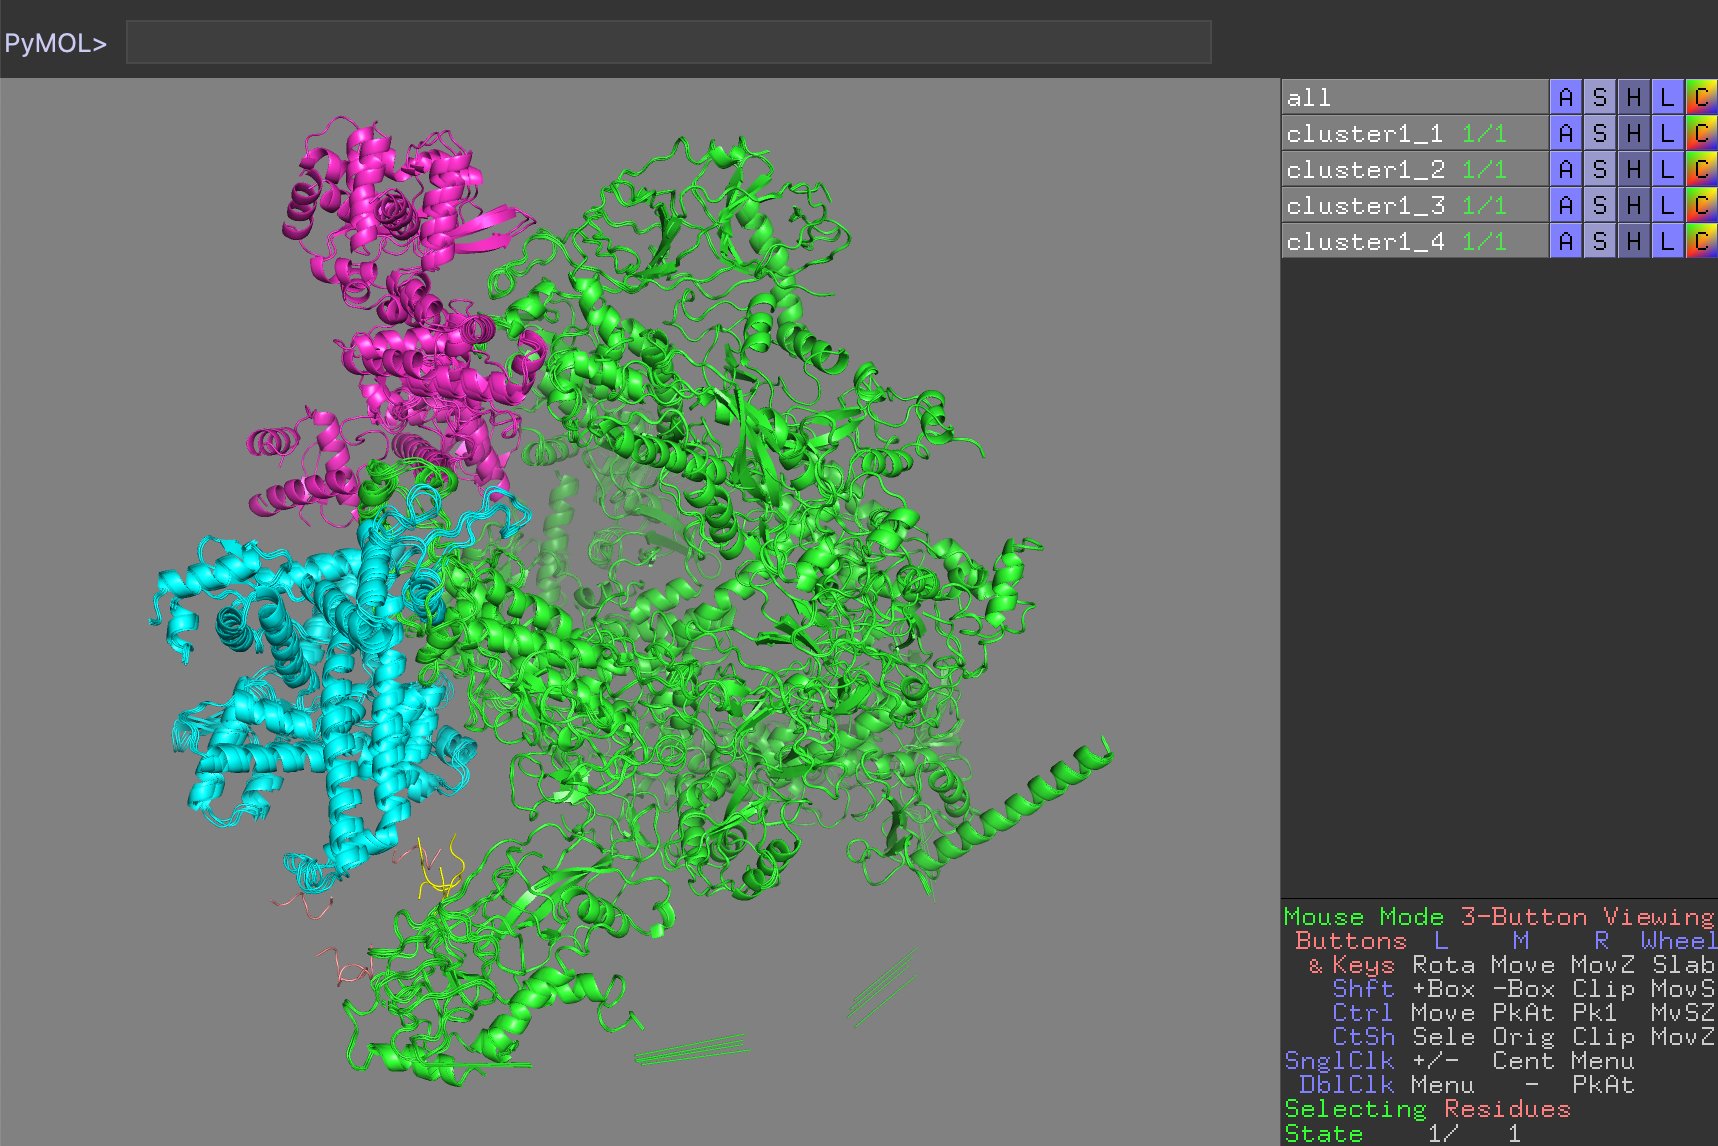
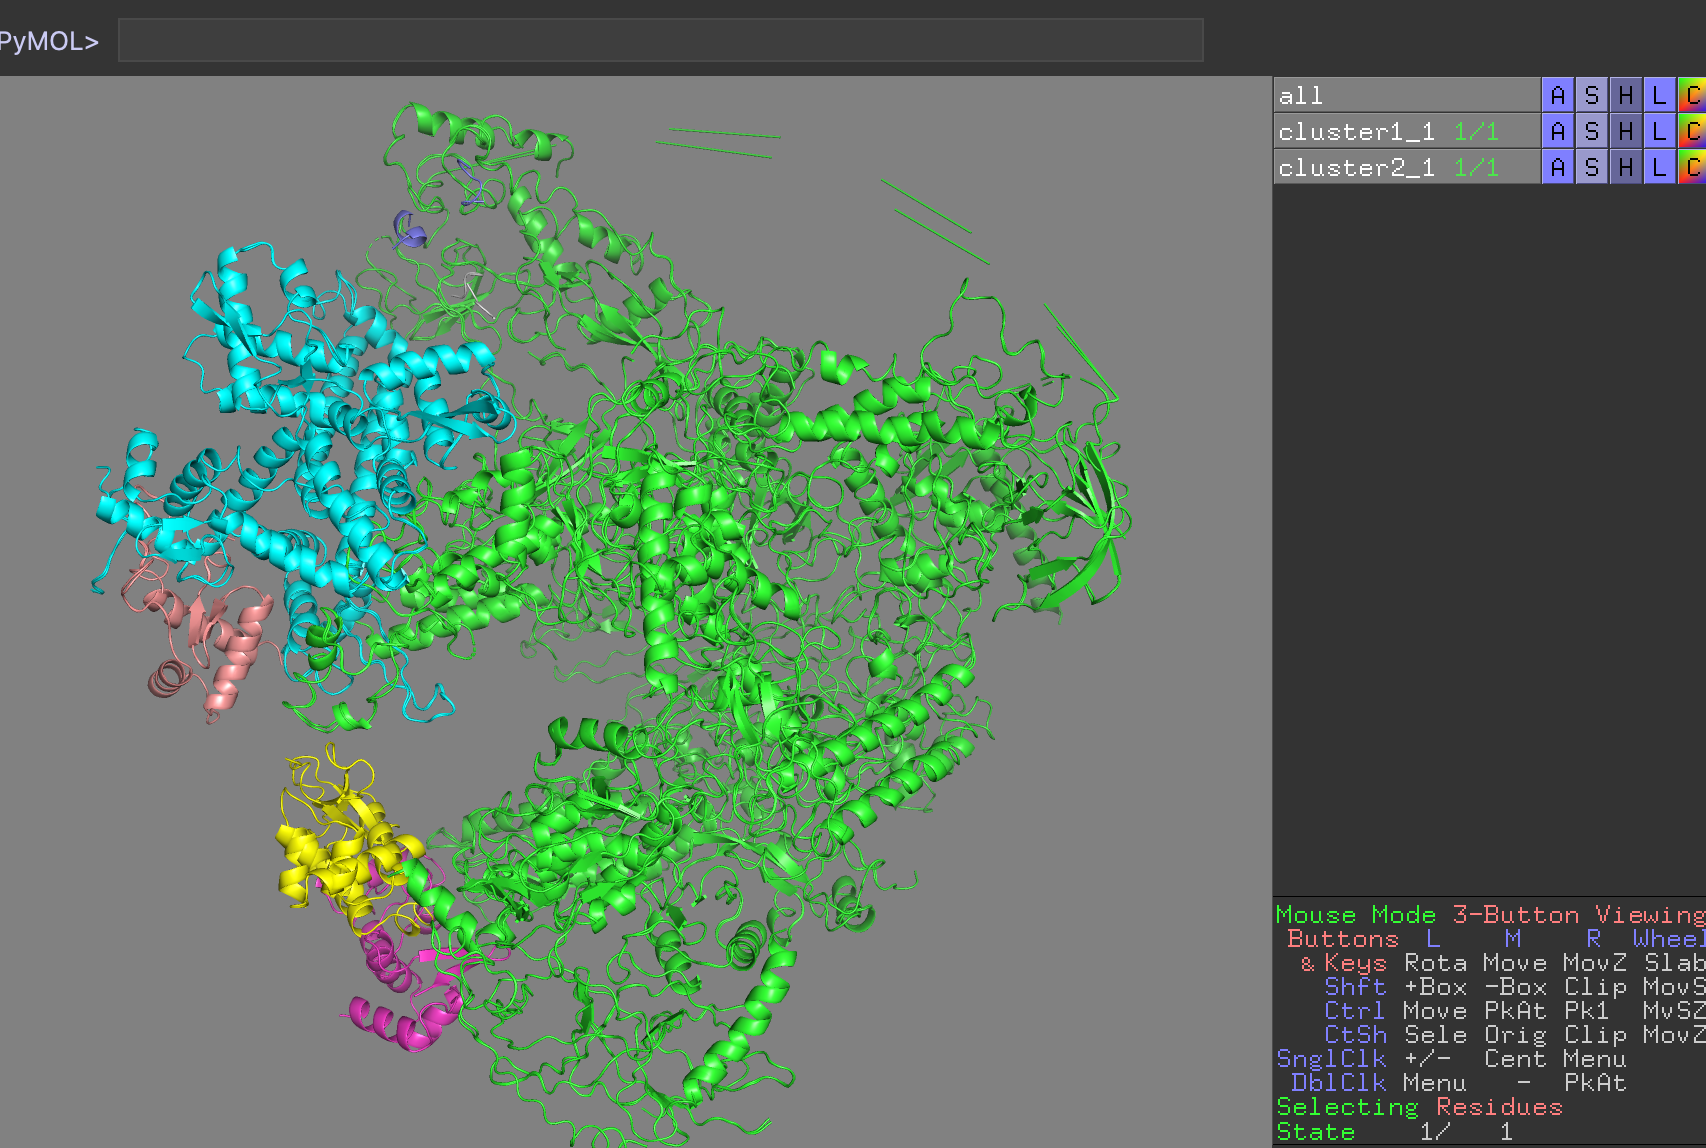
Update

diff --git a/education/HADDOCK24/RNA-Pol-III-2022/index.md b/education/HADDOCK24/RNA-Pol-III-2022/index.md
@@ -957,7 +957,7 @@ Which domain is the worst defined over the various clusters?
 
 Let's now check if the solutions actually fit the cross-links we defined.
 Start a new PyMOL session and load as described above the model you want to analyze, e.g. the best model of the top
-ranking cluster, `cluster1_1.pdb`.
+ranking cluster, `cluster5_1.pdb`.
 
 
 #### Analysing the cross-links defining the position of the C82 domain
@@ -993,7 +993,7 @@ If not, which ones are not satistified?
 
 <details style="background-color:#DAE4E7"><summary><b>See answer:</b>
 </summary>
-<p>Two cross-links for C82 are heavily violated with distances >50A. Clearly this model does not stastify all crosslinks. 
+<p>Two cross-links for C82 are heavily violated with distances up to ~50A. Clearly this model does not stastify all crosslinks. 
 Check the restraint energy of the various clusters and examine if the one with the best (lowest) restraint energy fits the cross-links better.</p>
 </details>
 <br>
@@ -1022,10 +1022,6 @@ distance C34-d05-30A, chain C and resid  65 and name CB, chain D and resid  123 
 distance C34-d06-30A, chain C and resid  65 and name CB, chain D and resid  126 and name CB<br>
 distance C34-d07-30A, chain C and resid  65 and name CB, chain D and resid  135 and name CB<br>
 distance C34-d08-30A, chain C and resid  65 and name CB, chain A and resid 5394 and name CB<br>
-distance C34-d09-30A, chain D and resid 123 and name CB, chain A and resid 5394 and name CB<br>
-distance C34-d10-30A, chain D and resid 135 and name CB, chain B and resid  520 and name CB<br>
-distance C34-d11-30A, chain D and resid 138 and name CB, chain B and resid  520 and name CB<br>
-distance C34-d12-30A, chain D and resid 141 and name CB, chain B and resid  520 and name CB<br>
 </a>
 
 <a class="prompt prompt-info">
@@ -1057,17 +1053,10 @@ Alternatively delete them in PyMol by typing:
 In the PyMOL command window type:
 
 <a class="prompt prompt-pymol">
-distance C34-d01-30A, chain C and resid  62 and name CB, chain D and resid   82 and name CB<br>
-distance C34-d02-30A, chain C and resid  62 and name CB, chain D and resid   83 and name CB<br>
-distance C34-d03-30A, chain C and resid  62 and name CB, chain D and resid  123 and name CB<br>
-distance C34-d04-30A, chain C and resid  65 and name CB, chain D and resid   82 and name CB<br>
-distance C34-d05-30A, chain C and resid  65 and name CB, chain D and resid  123 and name CB<br>
-distance C34-d06-30A, chain C and resid  65 and name CB, chain D and resid  126 and name CB<br>
-distance C34-d07-30A, chain C and resid  65 and name CB, chain D and resid  135 and name CB<br>
-distance C34-d09-30A, chain D and resid 123 and name CB, chain A and resid 5394 and name CB<br>
-distance C34-d10-30A, chain D and resid 135 and name CB, chain B and resid  520 and name CB<br>
-distance C34-d11-30A, chain D and resid 138 and name CB, chain B and resid  520 and name CB<br>
-distance C34-d12-30A, chain D and resid 141 and name CB, chain B and resid  520 and name CB<br>
+distance C34-d01-30A, chain D and resid 123 and name CB, chain A and resid 5394 and name CB<br>
+distance C34-d02-30A, chain D and resid 135 and name CB, chain B and resid  520 and name CB<br>
+distance C34-d03-30A, chain D and resid 138 and name CB, chain B and resid  520 and name CB<br>
+distance C34-d04-30A, chain D and resid 141 and name CB, chain B and resid  520 and name CB<br>
 </a>
 
 <a class="prompt prompt-info">
@@ -1126,7 +1115,7 @@ If not, which ones are not satistified?
 
 <details style="background-color:#DAE4E7"><summary><b>See answer:</b>
 </summary>
-<p>As for C82, there are heavily violated cross-links with distances >50A, especially the one connecting C31 to C82 (already seen when analysing the fit of the C82 cross-links).</p>
+<p>As for C82, there are heavily violated cross-links with distances up to ~50Å, especially the one connecting C31 to C82 (already seen when analysing the fit of the C82 cross-links).</p>
 </details>
 <br>
 
@@ -1266,15 +1255,11 @@ The last number in the command is the number of fittings tried from different ra
 </summary>
 <br>
 <pre>
-....cluster1_1.pdb :  0.8113
-....cluster2_1.pdb :  0.8023
-....cluster3_1.pdb :  0.8095
-....cluster4_1.pdb :  0.8175
-....cluster5_1.pdb :  0.8145
-....cluster6_1.pdb :  0.8953
-....cluster7_1.pdb :  0.8946
-....cluster8_1.pdb :  0.8105
-....cluster9_1.pdb :  0.8923
+    cluster1_1.pdb :  0.8132
+    cluster2_1.pdb :  0.8130
+    cluster3_1.pdb :  0.8943
+    cluster4_1.pdb :  0.8189
+....cluster5_1.pdb :  0.8178
 </pre>
 <br>
 </details>
@@ -1282,7 +1267,7 @@ The last number in the command is the number of fittings tried from different ra
 
 
 <a class="prompt prompt-question">
-Looking at the correlation coefficients of the various clusters, a few have values close to 0.9. Do those fit the cross-link restraints better (concentrate here on C82)?
+Looking at the correlation coefficients of the various clusters, one has values close to 0.9. Do those fit the cross-link restraints better (concentrate here on C82)?
 </a>
 
 It looks like this strategy was not able to generate models that fullfil the cross-link restraints (or those restraints are possibly problematic/false positives). In the following we will explore an alternate strategy that will first make use of the cryo-EM data to position the largest components into the map and then dock the remaining models.
@@ -1883,7 +1868,7 @@ alignto cluster1_1 and chain A<br>
 This will align all clusters on chain A (PolIII-core), maximizing the differences in the orientation of the other chains. Be patient as given the size of the system this might take a bit of time...
 
 
-__Note__: You can also open in PyMol a session in which the models have already been fitted. Open for this the `strategy2-clusters.pse` file found in the `docking/strategy2-RNA-PolIII-core-C82-C34-wHTHs-C31pep_summary` directory
+__Note__: You can also open in PyMol a session in which the models have already been fitted. Open for this the `strategy2-clusters.pse` file found in the `docking/strategy2-RNA-PolIII-core-C82-C34-wHTHs-C31pept_summary` directory
 
 
 <a class="prompt prompt-question">
@@ -1933,11 +1918,11 @@ util.cbc<br>
 distance C82-d01-30A, chain B and resid  50 and name CB, chain F and resid   91 and name CB<br>
 distance C82-d02-30A, chain B and resid 472 and name CB, chain A and resid 5394 and name CB<br>
 distance C82-d03-30A, chain B and resid 520 and name CB, chain A and resid 5394 and name CB<br>
-distance C82-d04-30A, chain B and resid 520 and name CB, chain C and resid  135 and name CB<br>
-distance C82-d05-30A, chain B and resid 520 and name CB, chain C and resid  138 and name CB<br>
-distance C82-d06-30A, chain B and resid 520 and name CB, chain C and resid  141 and name CB<br>
-distance C82-d08-30A, chain B and resid 605 and name CB, chain F and resid   91 and name CB<br>
-distance C82-d10-30A, chain B and resid 612 and name CB, chain G and resid  111 and name CB<br>
+distance C82-d04-30A, chain B and resid 520 and name CB, chain D and resid  135 and name CB<br>
+distance C82-d05-30A, chain B and resid 520 and name CB, chain D and resid  138 and name CB<br>
+distance C82-d06-30A, chain B and resid 520 and name CB, chain D and resid  141 and name CB<br>
+distance C82-d07-30A, chain B and resid 605 and name CB, chain F and resid   91 and name CB<br>
+distance C82-d08-30A, chain B and resid 612 and name CB, chain G and resid  111 and name CB<br>
 </a>
 
 This will draw lines between the connected atoms and display the corresponding Euclidian distance.
@@ -1962,7 +1947,7 @@ If not, which ones are not satistified?
 <br>
 
 
-#### Analysing the cross-links defining the position of the C34 domain
+#### Analysing the cross-links defining the position of the C34 wHTH1 domain
 
 You can first hide the distances shown for C82 by unselecting them in the menu on the right side of the window.
 Alternatively delete them in PyMol by typing:
@@ -1972,11 +1957,14 @@ Alternatively delete them in PyMol by typing:
 In the PyMOL command window type:
 
 <a class="prompt prompt-pymol">
-distance C34-1-d01-30A, chain C and resid 65 and name CB, chain A and resid 5394 and name CB<br>
-distance C34-2-d04-30A, chain C and resid 123 and name CB, chain A and resid 5394 and name CB<br>
-distance C34-2-d10-30A, chain C and resid 135 and name CB, chain B and resid  520 and name CB<br>
-distance C34-2-d11-30A, chain C and resid 138 and name CB, chain B and resid  520 and name CB<br>
-distance C34-2-d12-30A, chain C and resid 141 and name CB, chain B and resid  520 and name CB<br>
+distance C34-d01-30A, chain C and resid  62 and name CB, chain D and resid   82 and name CB<br>
+distance C34-d02-30A, chain C and resid  62 and name CB, chain D and resid   83 and name CB<br>
+distance C34-d03-30A, chain C and resid  62 and name CB, chain D and resid  123 and name CB<br>
+distance C34-d04-30A, chain C and resid  65 and name CB, chain D and resid   82 and name CB<br>
+distance C34-d05-30A, chain C and resid  65 and name CB, chain D and resid  123 and name CB<br>
+distance C34-d06-30A, chain C and resid  65 and name CB, chain D and resid  126 and name CB<br>
+distance C34-d07-30A, chain C and resid  65 and name CB, chain D and resid  135 and name CB<br>
+distance C34-d08-30A, chain C and resid  65 and name CB, chain A and resid 5394 and name CB<br>
 </a>
 
 <a class="prompt prompt-info">
@@ -1994,7 +1982,42 @@ If not, which ones are not satistified?
 
 <details style="background-color:#DAE4E7"><summary><b>See answer:</b>
 </summary>
-<p>All cross-links are satistied for C34.</p>
+<p>In the case of C34 wHTH1, all cross-links are satisfied.</p>
+</details>
+<br>
+
+#### Analysing the cross-links defining the position of the C34 wHTH2 domain
+
+You can first hide the distances shown for C82 by unselecting them in the menu on the right side of the window.
+Alternatively delete them in PyMol by typing:
+
+<a class="prompt prompt-pymol">delete C82*</a>
+
+In the PyMOL command window type:
+
+<a class="prompt prompt-pymol">
+distance C34-d01-30A, chain D and resid 123 and name CB, chain A and resid 5394 and name CB<br>
+distance C34-d02-30A, chain D and resid 135 and name CB, chain B and resid  520 and name CB<br>
+distance C34-d03-30A, chain D and resid 138 and name CB, chain B and resid  520 and name CB<br>
+distance C34-d04-30A, chain D and resid 141 and name CB, chain B and resid  520 and name CB<br>
+</a>
+
+<a class="prompt prompt-info">
+Inspect the various cross-link distances.
+</a>
+
+<a class="prompt prompt-question">
+Is the model satisfying the cross-link restraints?
+</a>
+
+<a class="prompt prompt-question">
+If not, which ones are not satistified?
+</a>
+
+
+<details style="background-color:#DAE4E7"><summary><b>See answer:</b>
+</summary>
+<p>In the case of C34 wHTH2, all cross-links are satisfied.</p>
 </details>
 <br>
 
@@ -2175,10 +2198,14 @@ The last number in the command is the number of fittings tried from different ra
 </summary>
 <br>
 <pre>
-....cluster1_1.pdb :  0.9292
-....cluster1_2.pdb :  0.9342
-....cluster1_3.pdb :  0.9360
-....cluster1_4.pdb :  0.9357
+....cluster1_1.pdb :  0.9435
+....cluster1_2.pdb :  0.9439
+....cluster1_3.pdb :  0.9458
+....cluster1_4.pdb :  0.9434
+....cluster2_1.pdb :  0.9456
+....cluster2_2.pdb :  0.9425
+....cluster2_3.pdb :  0.9415
+....cluster2_4.pdb :  0.9504
 </pre>
 <br>
 </details>
@@ -2193,7 +2220,7 @@ The last number in the command is the number of fittings tried from different ra
 <figure align="center">
 <img src="/education/HADDOCK24/RNA-Pol-III-2022/strategy2-EMfit.png">
 </figure>
-<p>Strategy 2, consisting of first fitting the largest domains into the map and using those as starting point for the docking leads to a better fit in the EM map (correlation 0.9315). Comparing the two sets of solutions, one can clearly see that C82 fits much better into the density. The C34 domains are however found in a region where no density is present, even when playing with the density level.</p>
+<p>Strategy 2, consisting of first fitting the largest domains into the map and using those as starting point for the docking leads to a better fit in the EM map (correlation 0.9456). Comparing the two sets of solutions, one can clearly see that C82 fits much better into the density. The C34 wHTH3 domain also nicely fit into the density. The other two C34 domains are however found in a region where no or little density is present, even when playing with the density level, which might indicate disorder / conformational variability.</p>
 </details>
 <br>
 <br>
